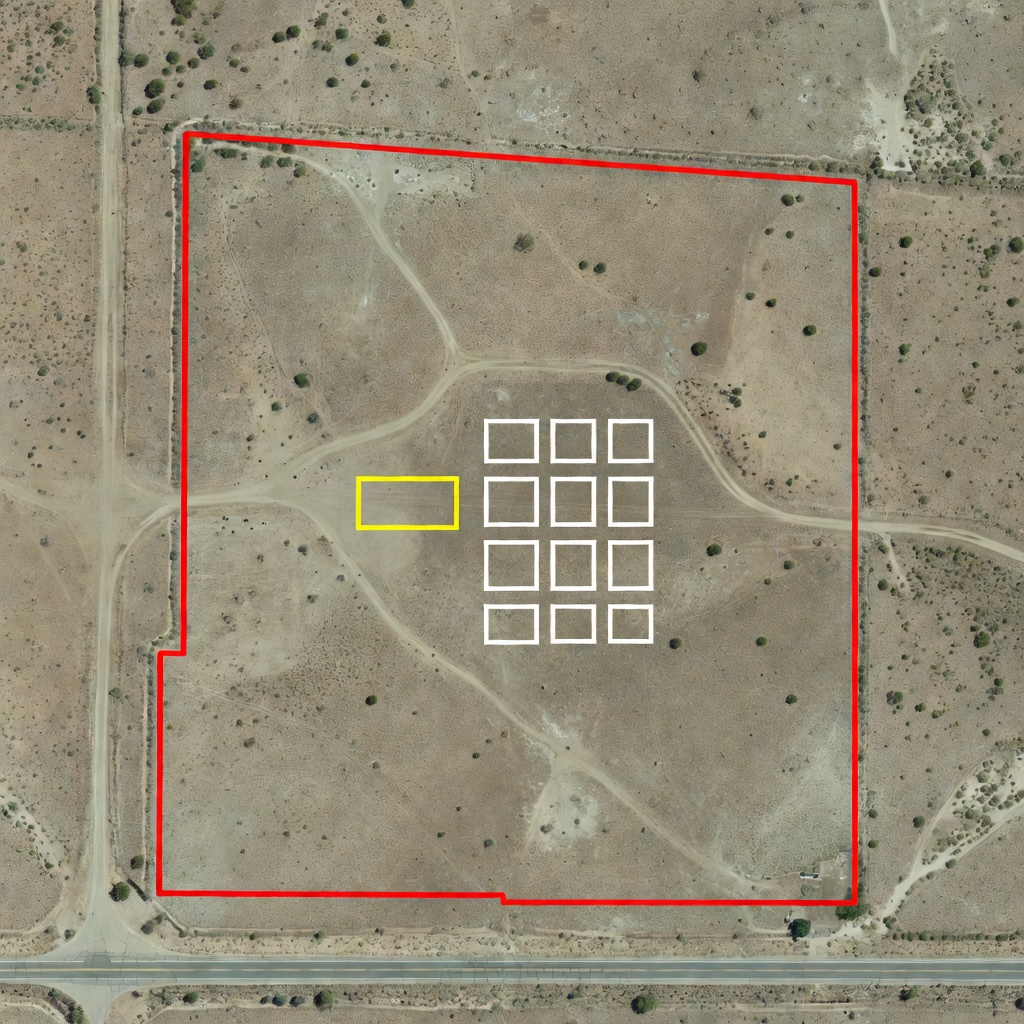
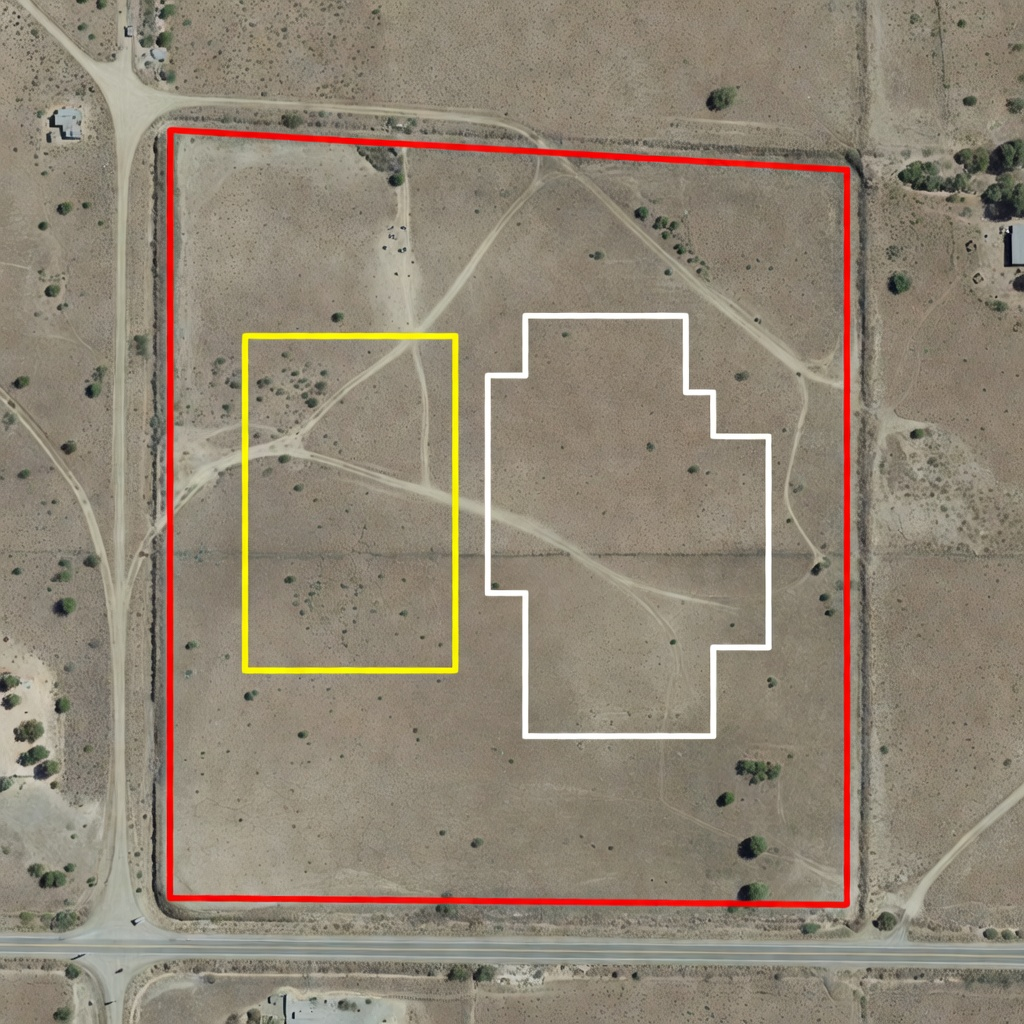
Scale up the switchyard and facility footprint in the site-drawing exhibit to match the example proportions.

diff --git a/backend/app/services/caiso_packet.py b/backend/app/services/caiso_packet.py
@@ -2445,11 +2445,14 @@ def _site_aerial_image(d: dict) -> bytes | None:
         "centered in the frame covering about sixty percent of the image. The red line "
         "lies entirely on open ground and never touches or crosses any road; all roads "
         "stay outside the red polygon. "
-        "(2) Strictly inside the red polygon, in its left-center area: one YELLOW "
-        "rectangular outline marking an electrical switchyard pad. "
-        "(3) Strictly inside the red polygon, in its right-center area: a cluster of "
-        "WHITE rectangular outlines marking the proposed facility footprint, not "
-        "overlapping the yellow rectangle. "
+        "(2) Strictly inside the red polygon, filling most of the left half of the "
+        "enclosed land: one large YELLOW rectangular outline marking an electrical "
+        "switchyard pad, covering roughly one third of the area inside the red boundary. "
+        "(3) Strictly inside the red polygon, filling most of the right half of the "
+        "enclosed land: one large WHITE compound outline (several connected rectangles "
+        "forming a single big footprint shape) marking the proposed facility footprint, "
+        "covering roughly one third of the area inside the red boundary, not overlapping "
+        "the yellow rectangle. "
         "Nothing yellow or white appears outside the red polygon. No text, no numbers, "
         "no labels, no arrows, no legend, no watermark, no map UI, no buildings, "
         "no solar panels."
